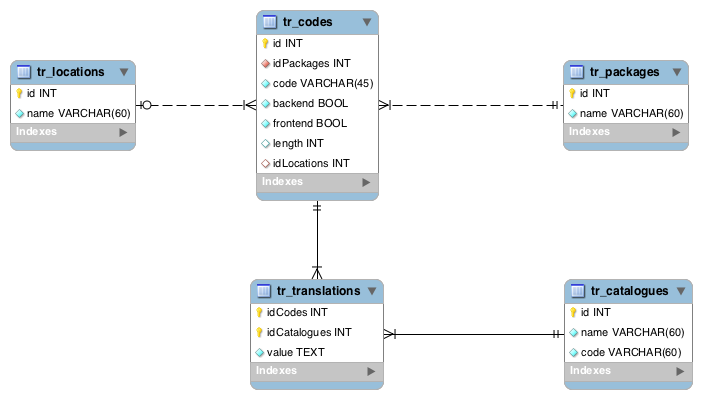
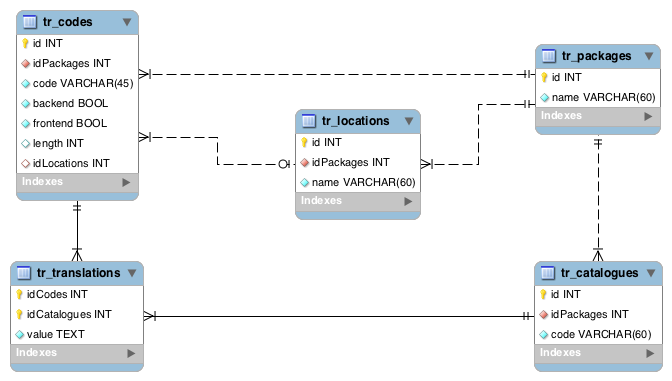
updated DET-101

diff --git a/detail-specification/100-basic/DET-101.md b/detail-specification/100-basic/DET-101.md
@@ -3,3 +3,7 @@
 ####Database Diagram
 
 ![Translations database diagram](https://raw.github.com/massiveart/sulu-docs/master/detail-specification/images/translate_database.png)
+
+####Description
+
+tr_codes contains all the translation keys, which are available in our system. A package is a collection of consolidated keys. These packages have multiple catalogues, one for each language. The catalogues hold all the translations from the package-codes in the tr_translations-table. The location is an optional field for each code, by which the codes can be grouped into seperate sections.
